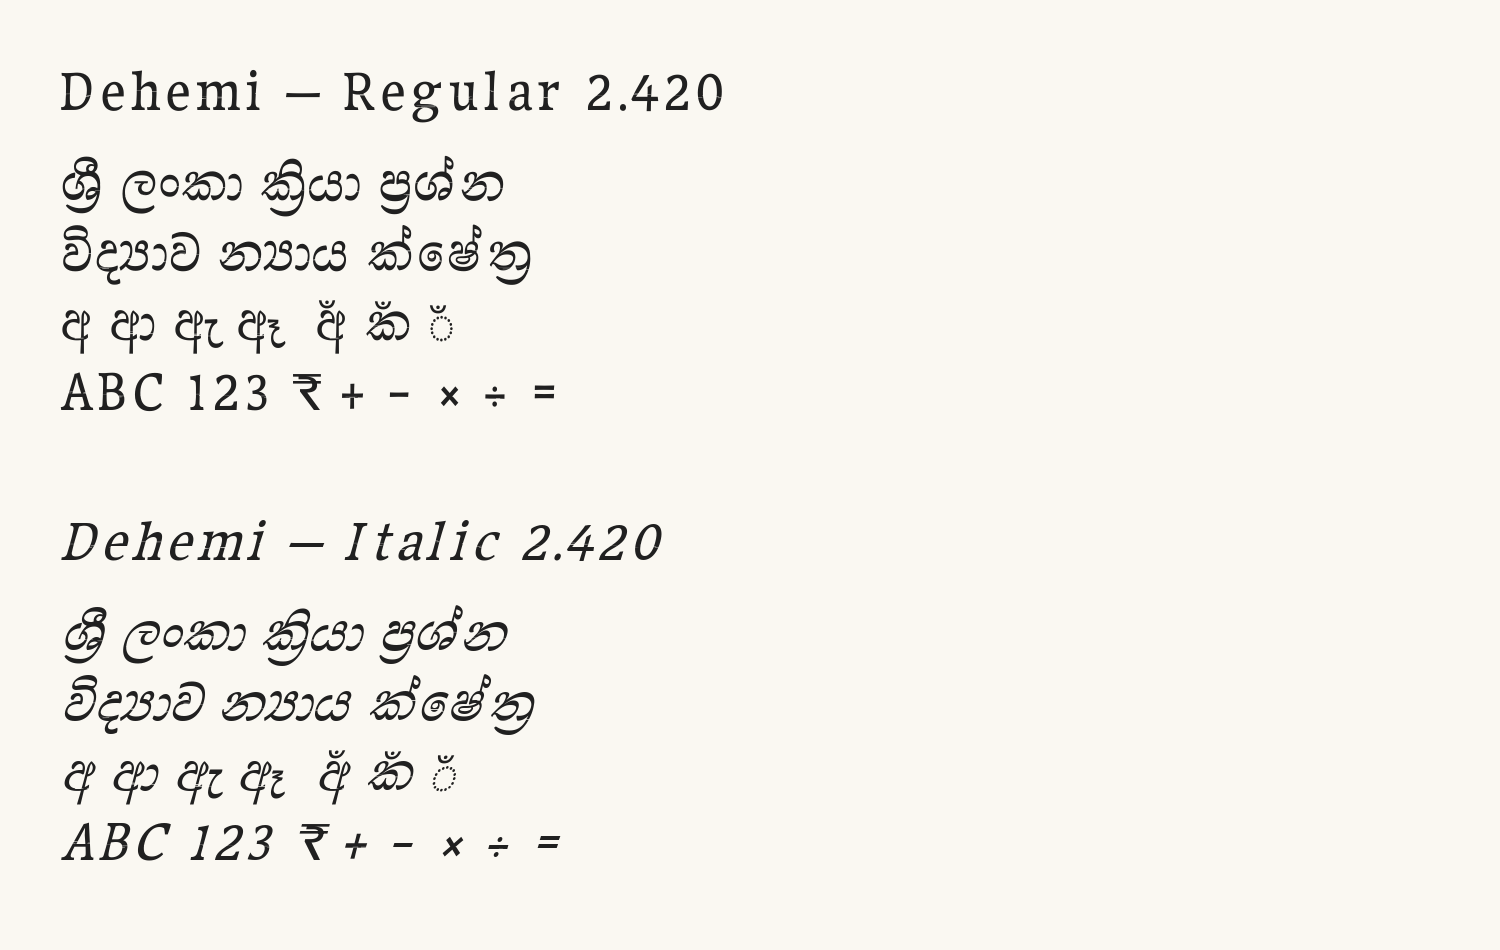
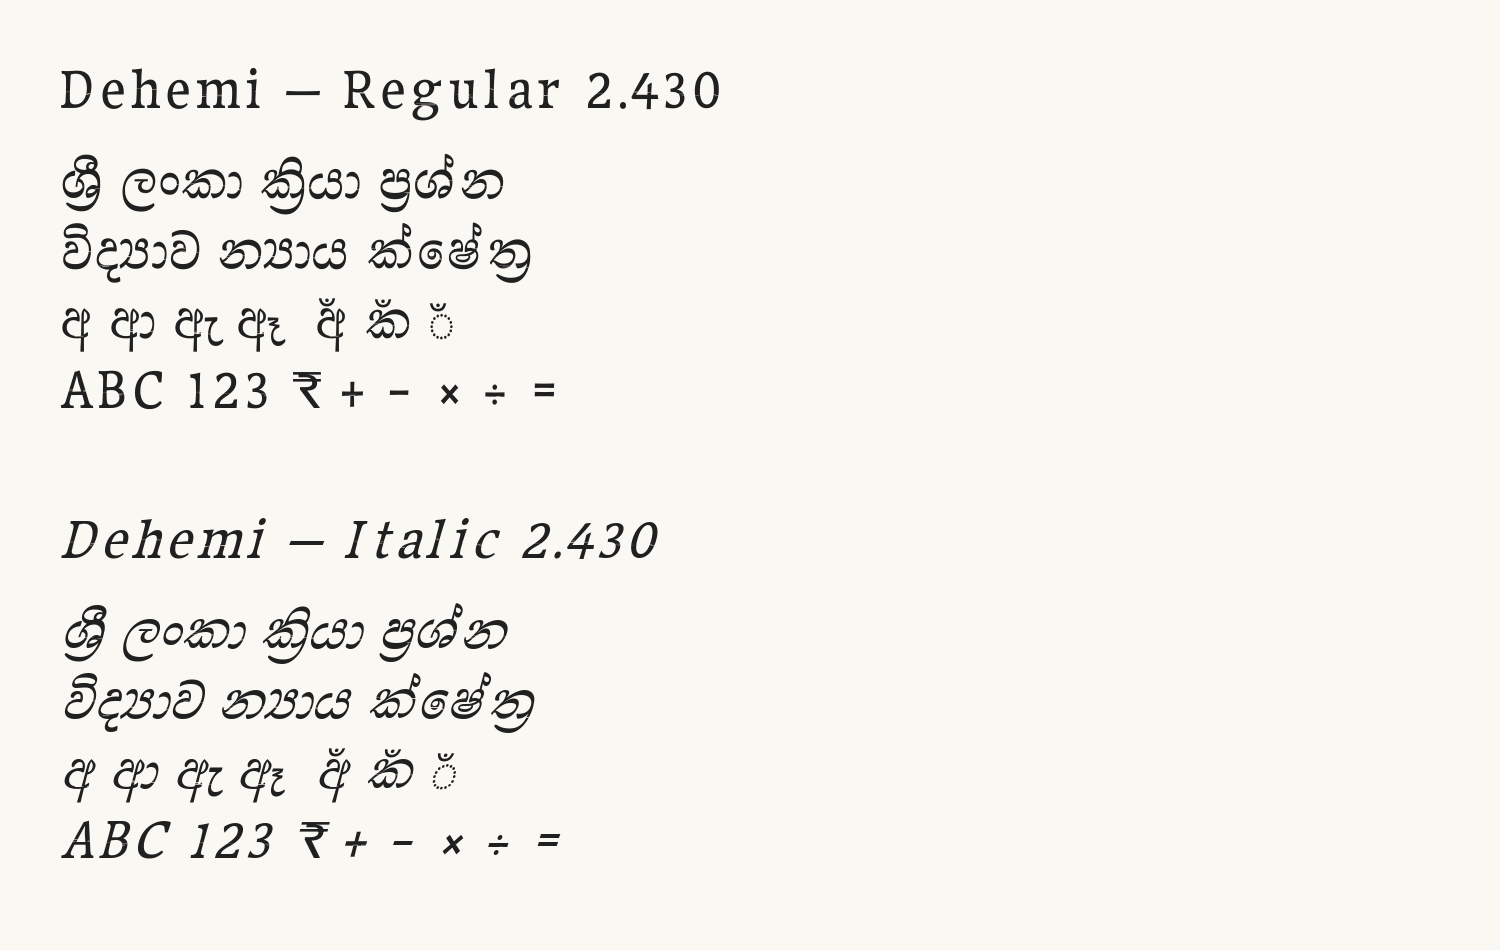
Publish final 2.430 browser and installed-face verification

diff --git a/documentation/SUBMISSION-DRAFT.md b/documentation/SUBMISSION-DRAFT.md
@@ -26,13 +26,13 @@ Fontspector 1.9.0 Google Fonts profile, both 2.430 styles: **204 PASS, 19 WARN, 
 
 Windows Uniscribe validation passes **790 shaping cases per style**; report: `qa/windows-validation-2.430.json`. This result is separate from HarfBuzz/FreeType tests and does not certify all Windows applications or DirectWrite behavior.
 
-All Linux, Windows and macOS jobs passed in [run 38225787985](https://github.com/anushannga/UF-Dehemi/actions/runs/38225787985), testing `23d58fbd91f8827bb8116a87e87e05e3bd1ed1a6`. Canonical TTF hashes from all three platforms match the current release. Windows Uniscribe and actual macOS CoreText each pass 790 coverage cases per style; CoreText also passes three expected conjunct cases per style with no missing/fallback glyphs and mark-geometry checks. Linux Chromium 153.0.8010.12 passes the conditional soft-hyphen line-breaking proof in both styles. Reports: `qa/platform-validation-2.430.json`, `qa/coretext-validation-2.430.json`, `qa/browser-validation-2.430.json` and `qa/platforms/`.
+All Linux, Windows and macOS jobs passed in [run 38226501752](https://github.com/anushannga/UF-Dehemi/actions/runs/38226501752), testing `574efaca4d82c4ab0604663d703ad9c01e3f9c3f`. Canonical TTF hashes from all three platforms match the current release. Windows Uniscribe and actual macOS CoreText each pass 790 coverage cases per style; CoreText also passes three expected conjunct cases per style with no missing/fallback glyphs and mark-geometry checks. Linux Chromium 153.0.8010.12 passes the conditional soft-hyphen line-breaking proof in both styles. Reports: `qa/platform-validation-2.430.json`, `qa/coretext-validation-2.430.json`, `qa/browser-validation-2.430.json` and `qa/platforms/`.
 
 Contributor agreements, upstream contributor coverage, curator design review and warning review remain pending. The Maname-derived source attribution is retained, and exclusive ownership is not claimed. Google Fonts acceptance and Google Docs availability are not claimed.
 
 Release URL: https://github.com/anushannga/UF-Dehemi/releases/tag/v2.430 (verify publication before posting).
 
-All Linux, Windows and macOS jobs passed in [run 38225787985](https://github.com/anushannga/UF-Dehemi/actions/runs/38225787985), testing `23d58fbd91f8827bb8116a87e87e05e3bd1ed1a6`. Canonical TTF hashes from all three platforms match the current release. Windows Uniscribe and actual macOS CoreText each pass 790 coverage cases per style; CoreText also passes three expected conjunct cases per style with no missing/fallback glyphs and mark-geometry checks. Linux Chromium 153.0.8010.12 passes the conditional soft-hyphen line-breaking proof in both styles. Reports: `qa/platform-validation-2.430.json`, `qa/coretext-validation-2.430.json`, `qa/browser-validation-2.430.json` and `qa/platforms/`.
+All Linux, Windows and macOS jobs passed in [run 38226501752](https://github.com/anushannga/UF-Dehemi/actions/runs/38226501752), testing `574efaca4d82c4ab0604663d703ad9c01e3f9c3f`. Canonical TTF hashes from all three platforms match the current release. Windows Uniscribe and actual macOS CoreText each pass 790 coverage cases per style; CoreText also passes three expected conjunct cases per style with no missing/fallback glyphs and mark-geometry checks. Linux Chromium 153.0.8010.12 passes the conditional soft-hyphen line-breaking proof in both styles. Reports: `qa/platform-validation-2.430.json`, `qa/coretext-validation-2.430.json`, `qa/browser-validation-2.430.json` and `qa/platforms/`.
 
 Latest Fontspector links: [JSON](https://github.com/anushannga/UF-Dehemi/blob/main/qa/fontspector-2.430.json) and [HTML](https://github.com/anushannga/UF-Dehemi/blob/main/qa/fontspector-2.430.html), available after publication of this commit.
 

diff --git a/documentation/WARNING-REVIEW.md b/documentation/WARNING-REVIEW.md
@@ -30,6 +30,6 @@ The [manual review record](../qa/manual-review-2.430.json) identifies exact font
 
 ## Actual platform results and onboarding
 
-Local HarfBuzz/FreeType, Windows Uniscribe and native fontmake checks pass. All Linux, Windows and macOS jobs passed in [run 38225787985](https://github.com/anushannga/UF-Dehemi/actions/runs/38225787985), testing `23d58fbd91f8827bb8116a87e87e05e3bd1ed1a6`. Canonical TTF hashes from all three platforms match the current release. Windows Uniscribe and actual macOS CoreText each pass 790 coverage cases per style; CoreText also passes three expected conjunct cases per style with no missing/fallback glyphs and mark-geometry checks. Linux Chromium 153.0.8010.12 passes the conditional soft-hyphen line-breaking proof in both styles. Reports: `qa/platform-validation-2.430.json`, `qa/coretext-validation-2.430.json`, `qa/browser-validation-2.430.json` and `qa/platforms/`. CoreText checks examine fallback, expected conjuncts and mark origin/base/cluster advances; browser checks use a fresh isolated context. The recorded corpus cannot certify every Unicode sequence, application, printing pipeline or future software version.
+Local HarfBuzz/FreeType, Windows Uniscribe and native fontmake checks pass. All Linux, Windows and macOS jobs passed in [run 38226501752](https://github.com/anushannga/UF-Dehemi/actions/runs/38226501752), testing `574efaca4d82c4ab0604663d703ad9c01e3f9c3f`. Canonical TTF hashes from all three platforms match the current release. Windows Uniscribe and actual macOS CoreText each pass 790 coverage cases per style; CoreText also passes three expected conjunct cases per style with no missing/fallback glyphs and mark-geometry checks. Linux Chromium 153.0.8010.12 passes the conditional soft-hyphen line-breaking proof in both styles. Reports: `qa/platform-validation-2.430.json`, `qa/coretext-validation-2.430.json`, `qa/browser-validation-2.430.json` and `qa/platforms/`. CoreText checks examine fallback, expected conjuncts and mark origin/base/cluster advances; browser checks use a fresh isolated context. The recorded corpus cannot certify every Unicode sequence, application, printing pipeline or future software version.
 
 Continue the existing Google Fonts issue rather than opening a duplicate. Keep Maname attribution and OFL terms. Human CLA, upstream contributor coverage, Google Fonts curator acceptance and downstream Google Docs availability remain separate pending items. [Official QA guide](https://googlefonts.github.io/gf-guide/qa.html) describes the need for human judgment on warnings.

diff --git a/documentation/ONBOARDING.md b/documentation/ONBOARDING.md
@@ -23,7 +23,7 @@ The confirmed 2.430 Fontspector result is 204 PASS, 19 WARN, 0 FAIL, 137 SKIP an
 
 The canonical build preserves the existing italic outlines and hinting from TTX while compiling editable native FEA. The UFO/fontmake target also compiles feature source; it does not copy binary layout tables. SFD/UFO outlines and the initial FEA originated as reverse exports, which remains part of the documented source history. The unhinted fontmake output is separately checked for shaping parity and does not replace the canonical release.
 
-All Linux, Windows and macOS jobs passed in [run 38225787985](https://github.com/anushannga/UF-Dehemi/actions/runs/38225787985), testing `23d58fbd91f8827bb8116a87e87e05e3bd1ed1a6`. Canonical TTF hashes from all three platforms match the current release. Windows Uniscribe and actual macOS CoreText each pass 790 coverage cases per style; CoreText also passes three expected conjunct cases per style with no missing/fallback glyphs and mark-geometry checks. Linux Chromium 153.0.8010.12 passes the conditional soft-hyphen line-breaking proof in both styles. Reports: `qa/platform-validation-2.430.json`, `qa/coretext-validation-2.430.json`, `qa/browser-validation-2.430.json` and `qa/platforms/`.
+All Linux, Windows and macOS jobs passed in [run 38226501752](https://github.com/anushannga/UF-Dehemi/actions/runs/38226501752), testing `574efaca4d82c4ab0604663d703ad9c01e3f9c3f`. Canonical TTF hashes from all three platforms match the current release. Windows Uniscribe and actual macOS CoreText each pass 790 coverage cases per style; CoreText also passes three expected conjunct cases per style with no missing/fallback glyphs and mark-geometry checks. Linux Chromium 153.0.8010.12 passes the conditional soft-hyphen line-breaking proof in both styles. Reports: `qa/platform-validation-2.430.json`, `qa/coretext-validation-2.430.json`, `qa/browser-validation-2.430.json` and `qa/platforms/`.
 
 These results cover the recorded corpus and do not certify DirectWrite, every application or universal platform compatibility. Human review should still cover the Regular design, textured contours, the 19 remaining Fontspector warnings, mark placement, line spacing, browser and office use, and print/export behavior. Contributor agreements, upstream contributor coverage and Google Fonts curator acceptance remain pending.
 

diff --git a/README.md b/README.md
@@ -18,7 +18,7 @@ Local checks pass 788 HarfBuzz Sinhala cases and 5,540 FreeType glyph renders pe
 
 The original 1,090 Italic glyphs have identical point coordinates and hint instructions to 2.420; 5,450 old-glyph raster comparisons are identical. Regular corrections move 515 points across 270 old glyphs by at most three design units. Existing advances change only for `sinVirama` (237 to zero); tested normal Sinhala shaping stays unchanged. See [outline QA](qa/outline-review-2.430.json) and [visual proof](documentation/outline-proof-2.430.png).
 
-All Linux, Windows and macOS jobs passed in [run 38225787985](https://github.com/anushannga/UF-Dehemi/actions/runs/38225787985), testing `23d58fbd91f8827bb8116a87e87e05e3bd1ed1a6`. Canonical TTF hashes from all three platforms match the current release. Windows Uniscribe and actual macOS CoreText each pass 790 coverage cases per style; CoreText also passes three expected conjunct cases per style with no missing/fallback glyphs and mark-geometry checks. Linux Chromium 153.0.8010.12 passes the conditional soft-hyphen line-breaking proof in both styles. Reports: `qa/platform-validation-2.430.json`, `qa/coretext-validation-2.430.json`, `qa/browser-validation-2.430.json` and `qa/platforms/`.
+All Linux, Windows and macOS jobs passed in [run 38226501752](https://github.com/anushannga/UF-Dehemi/actions/runs/38226501752), testing `574efaca4d82c4ab0604663d703ad9c01e3f9c3f`. Canonical TTF hashes from all three platforms match the current release. Windows Uniscribe and actual macOS CoreText each pass 790 coverage cases per style; CoreText also passes three expected conjunct cases per style with no missing/fallback glyphs and mark-geometry checks. Linux Chromium 153.0.8010.12 passes the conditional soft-hyphen line-breaking proof in both styles. Reports: `qa/platform-validation-2.430.json`, `qa/coretext-validation-2.430.json`, `qa/browser-validation-2.430.json` and `qa/platforms/`.
 
 ## Build
 
